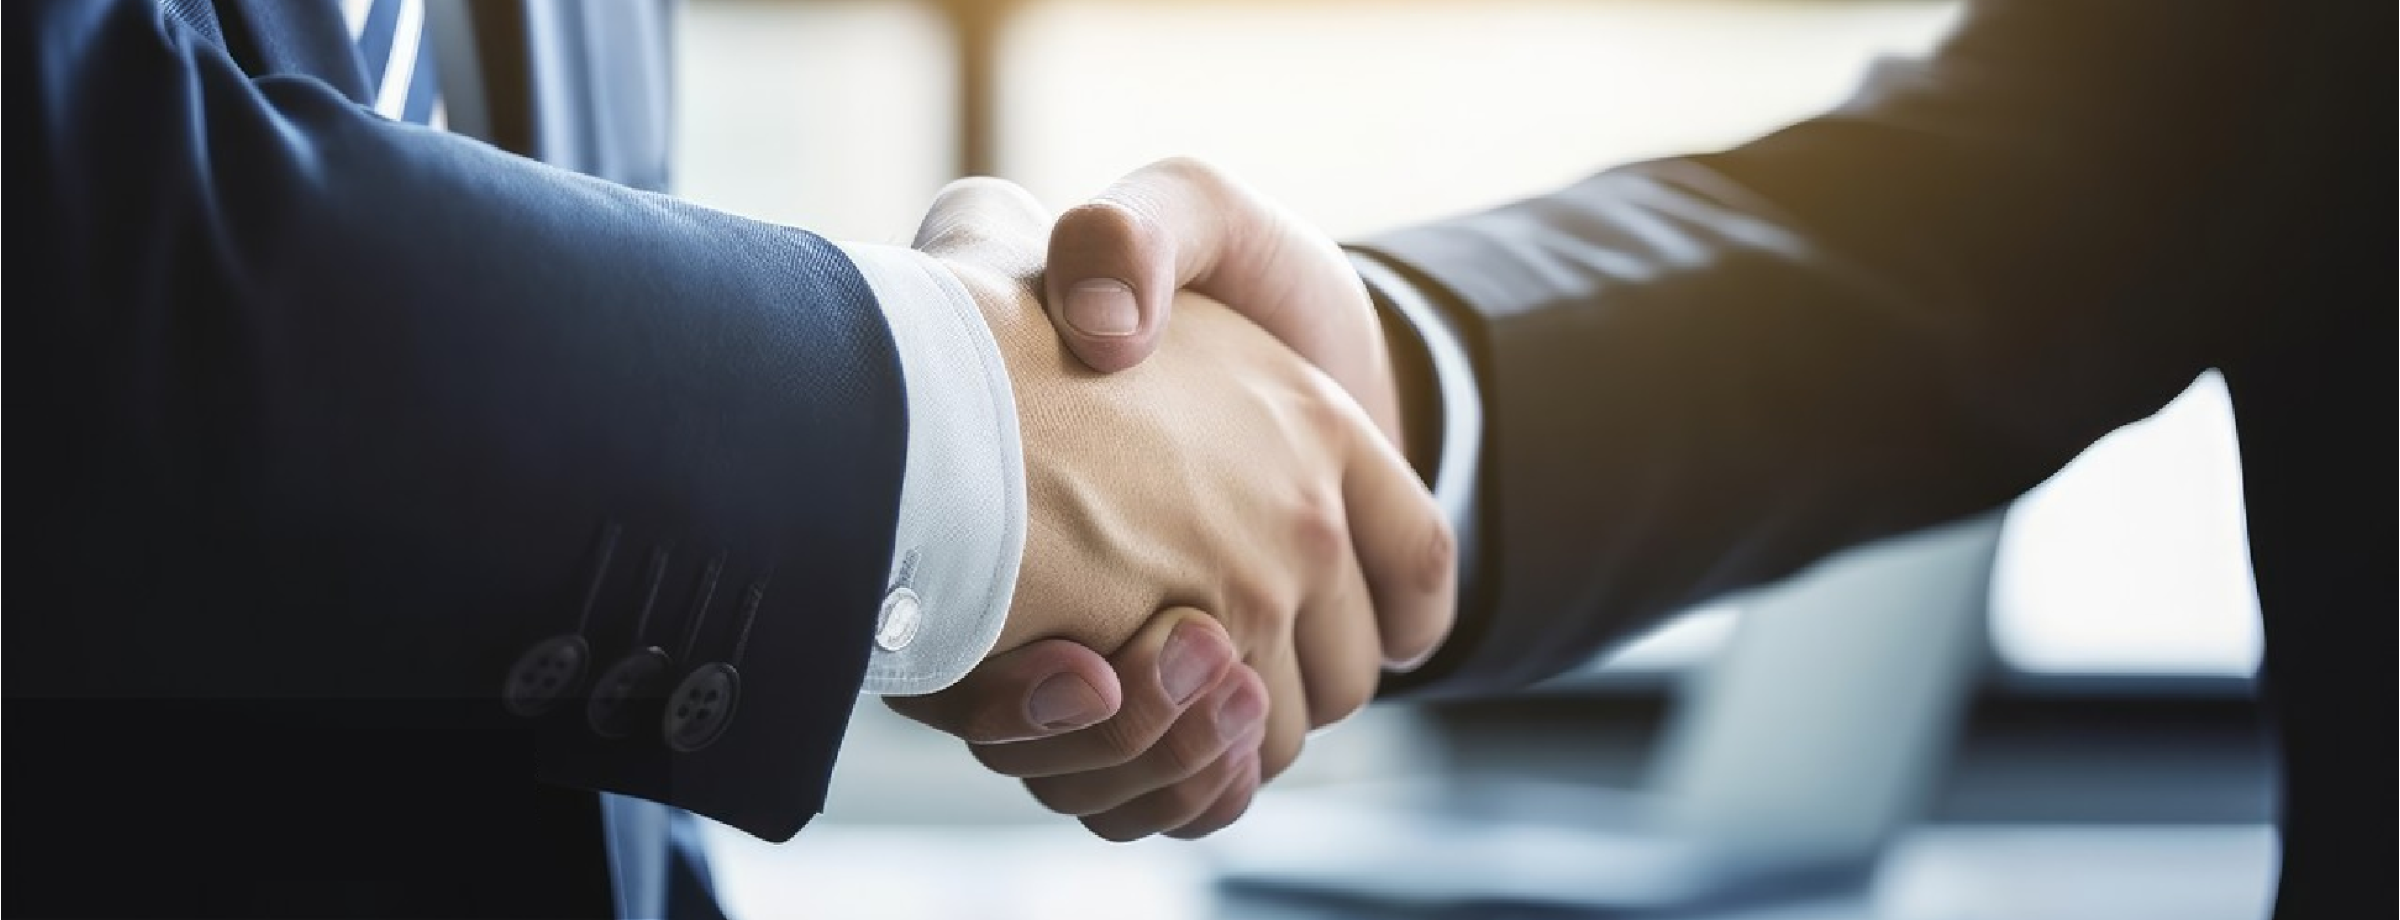
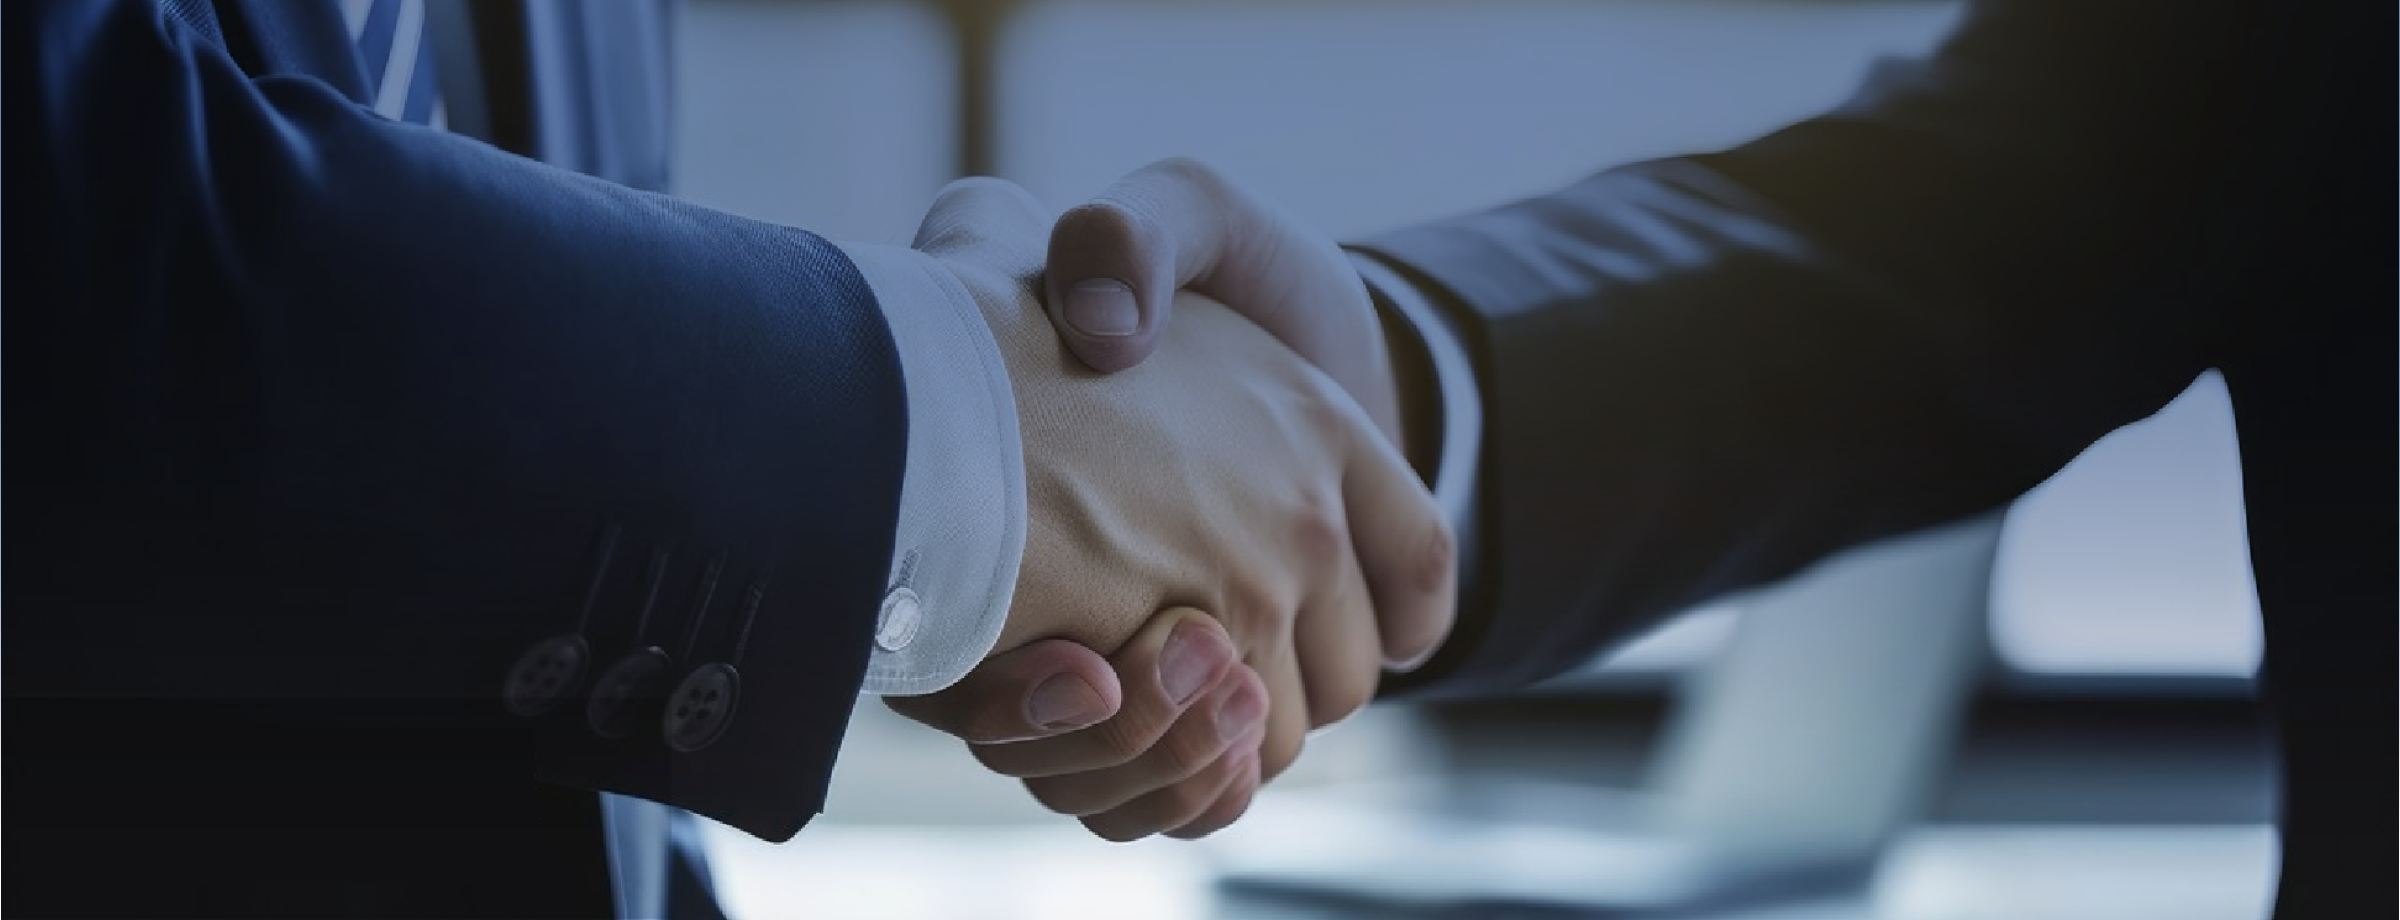
feat: 更新

diff --git a/components/hero-setion/index.tsx b/components/hero-setion/index.tsx
@@ -1,18 +1,17 @@
 'use client';
-import classNames from 'classnames';
 import React, { FC } from 'react';
 
 import { ICustomComponentProps } from '@/types';
 
 import { getConf } from '@/utils';
-import { Flex, Grid } from 'antd';
+import { Grid } from 'antd';
 import AspectRatio from '../aspect-ratio';
 import './index.scss';
 
 /**
  * 导航下面的大图
  */
-const HeroSection: FC<ICustomComponentProps> = ({ src }) => {
+const HeroSection: FC<ICustomComponentProps> = () => {
     /**
      * Hooks
      */
@@ -21,11 +20,24 @@ const HeroSection: FC<ICustomComponentProps> = ({ src }) => {
     return (
         <div style={{ maxWidth: '1920px', margin: '0 auto' }}>
             <AspectRatio ratio={conf.banner}>
-                <img
-                    src={src}
-                    // src="/images/hero-section/research-and-innovation@2x.png"
-                    style={{ objectFit: 'cover', height: '100%', width: 'auto' }}
-                />
+                <div
+                    style={{
+                        backgroundColor: 'rgba(var(--custom-blue-rgb), 0.8)',
+                        height: '100%',
+                        display: 'flex',
+                        alignItems: 'center',
+                        justifyContent: 'center',
+                    }}
+                >
+                    <img
+                        src="/images/hero-section/research-and-innovation@2x.png"
+                        style={{
+                            objectFit: 'cover',
+                            height: '100%',
+                            width: 'auto',
+                        }}
+                    />
+                </div>
             </AspectRatio>
         </div>
     );

diff --git a/app/research-and-innovation/page.tsx b/app/research-and-innovation/page.tsx
@@ -1,5 +1,6 @@
 'use client';
 import HeroSection from '@/components/hero-setion';
+import TitleSection from '@/components/title-section';
 import { ICustomComponentProps } from '@/types';
 import classNames from 'classnames';
 import { FC } from 'react';
@@ -10,7 +11,9 @@ import { FC } from 'react';
 const ResearchAndInnovation: FC<ICustomComponentProps> = ({ className }) => {
     return (
         <div className={classNames('', className)}>
-            <HeroSection src="/images/hero-section/research-and-innovation@2x.png" />
+            <HeroSection src="/images/hero-section/research-and-innovation@2x.png">
+                <TitleSection title="固态电池研发与创新" subtitle="人才与创新是卫蓝聚焦未来技术的基础" />
+            </HeroSection>
         </div>
     );
 };

diff --git a/components/title-section/index.tsx b/components/title-section/index.tsx
@@ -8,14 +8,14 @@ import { Divider, Flex } from 'antd';
 /**
  *
  */
-const TitleSection: FC<ICustomComponentProps> = ({ title, subtitle }) => {
+const TitleSection: FC<ICustomComponentProps> = ({ title, subtitle = '' }) => {
     return (
         <Flex gap={40} vertical>
             <Flex gap={8} vertical>
                 {/* 主标题 */}
                 <div className="title-top-big">{title}</div>
                 {/* 副标题 */}
-                <div className="subtitle-top-big">{subtitle}</div>
+                {subtitle.length > 0 ? <div className="subtitle-top-big">{subtitle}</div> : null}
             </Flex>
             {/* 线 */}
             <Divider

diff --git a/components/hero-setion/index.scss b/components/hero-setion/index.scss
@@ -1,0 +1,6 @@
+.hero-section-titile-box {
+    position: absolute;
+    top: 50%;
+    left: 70;
+    transform: translateY(-50%);
+}
